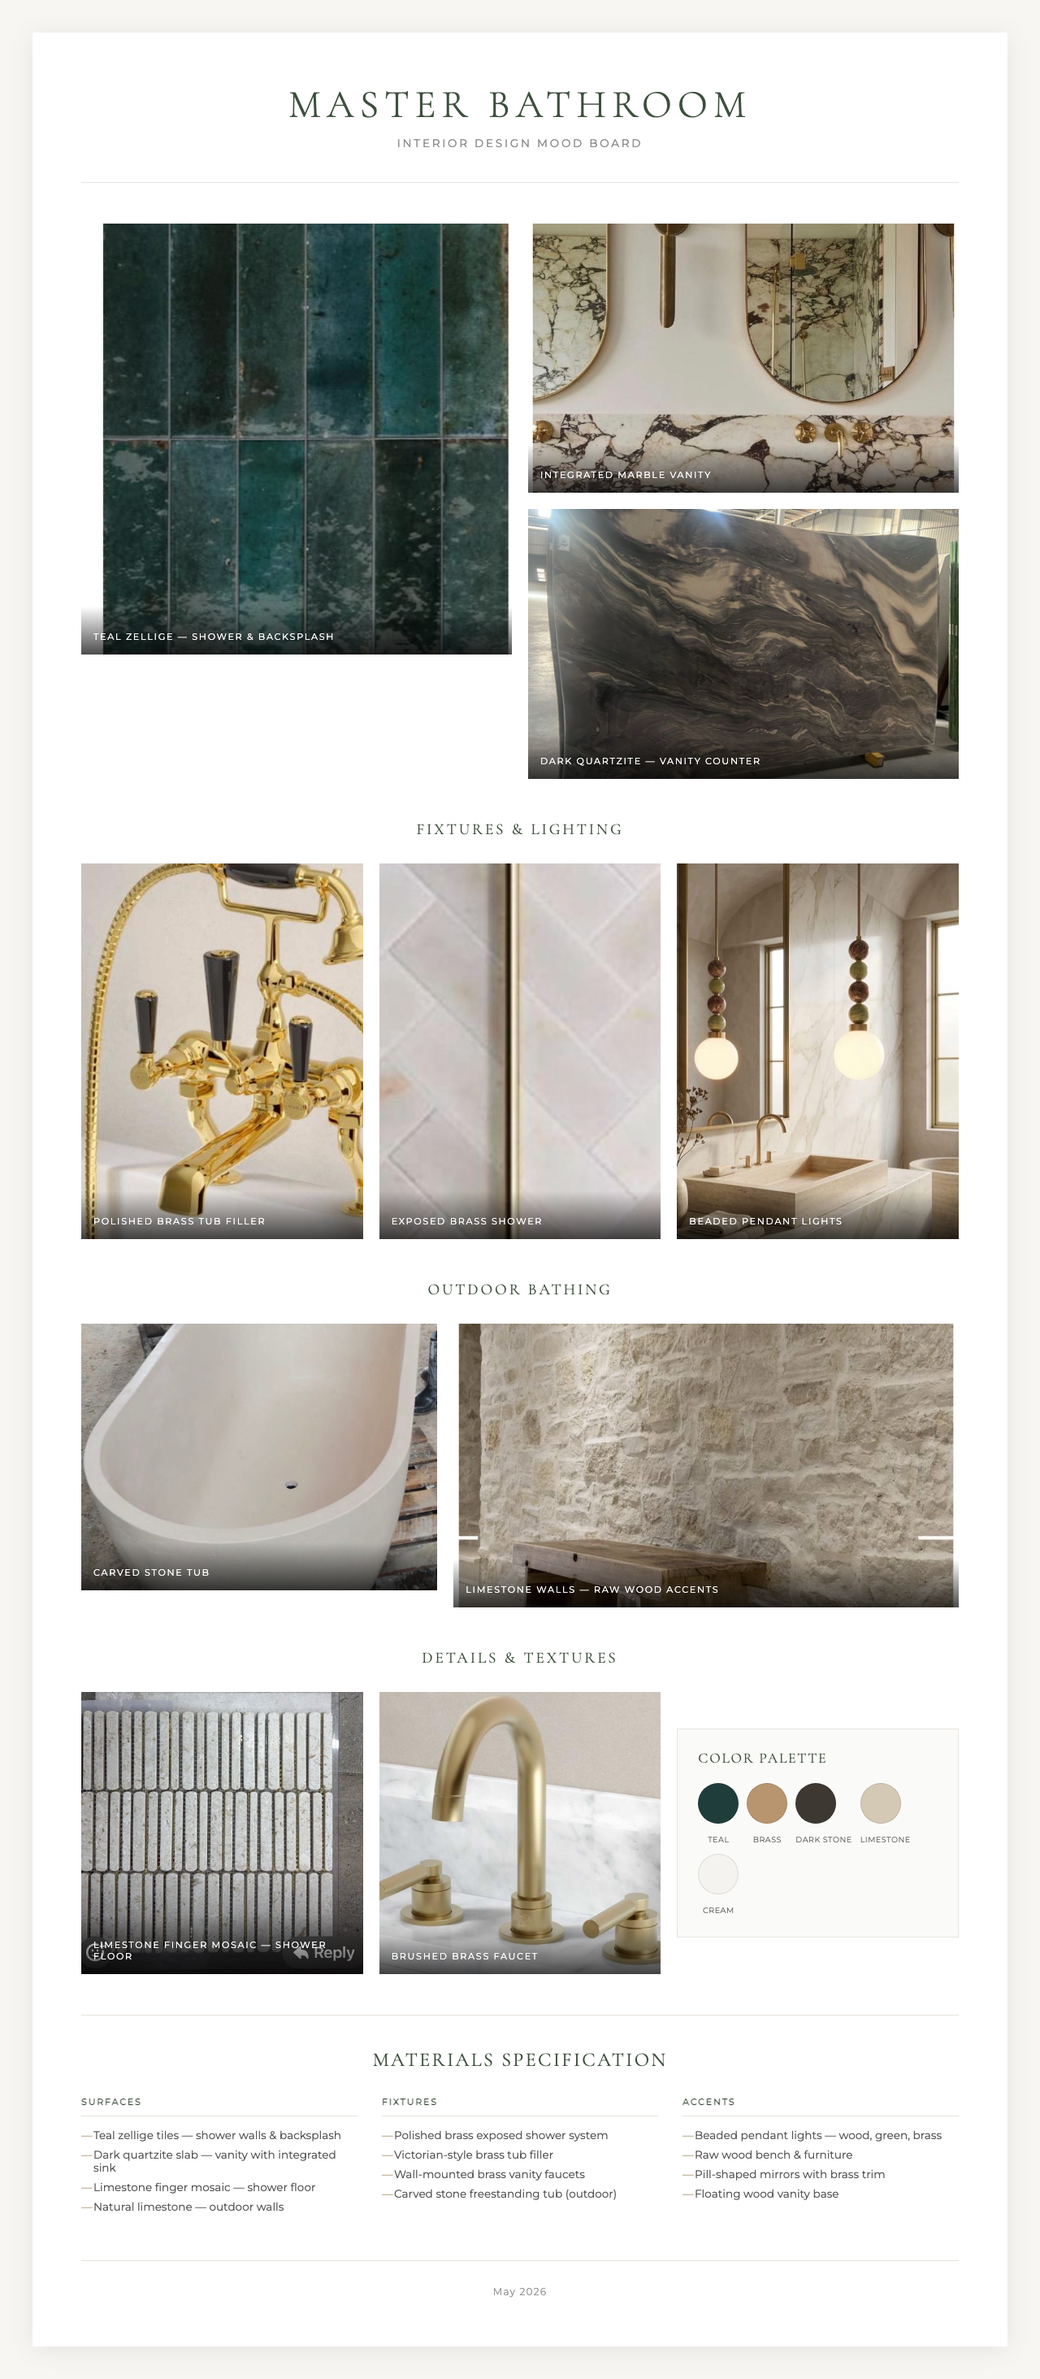
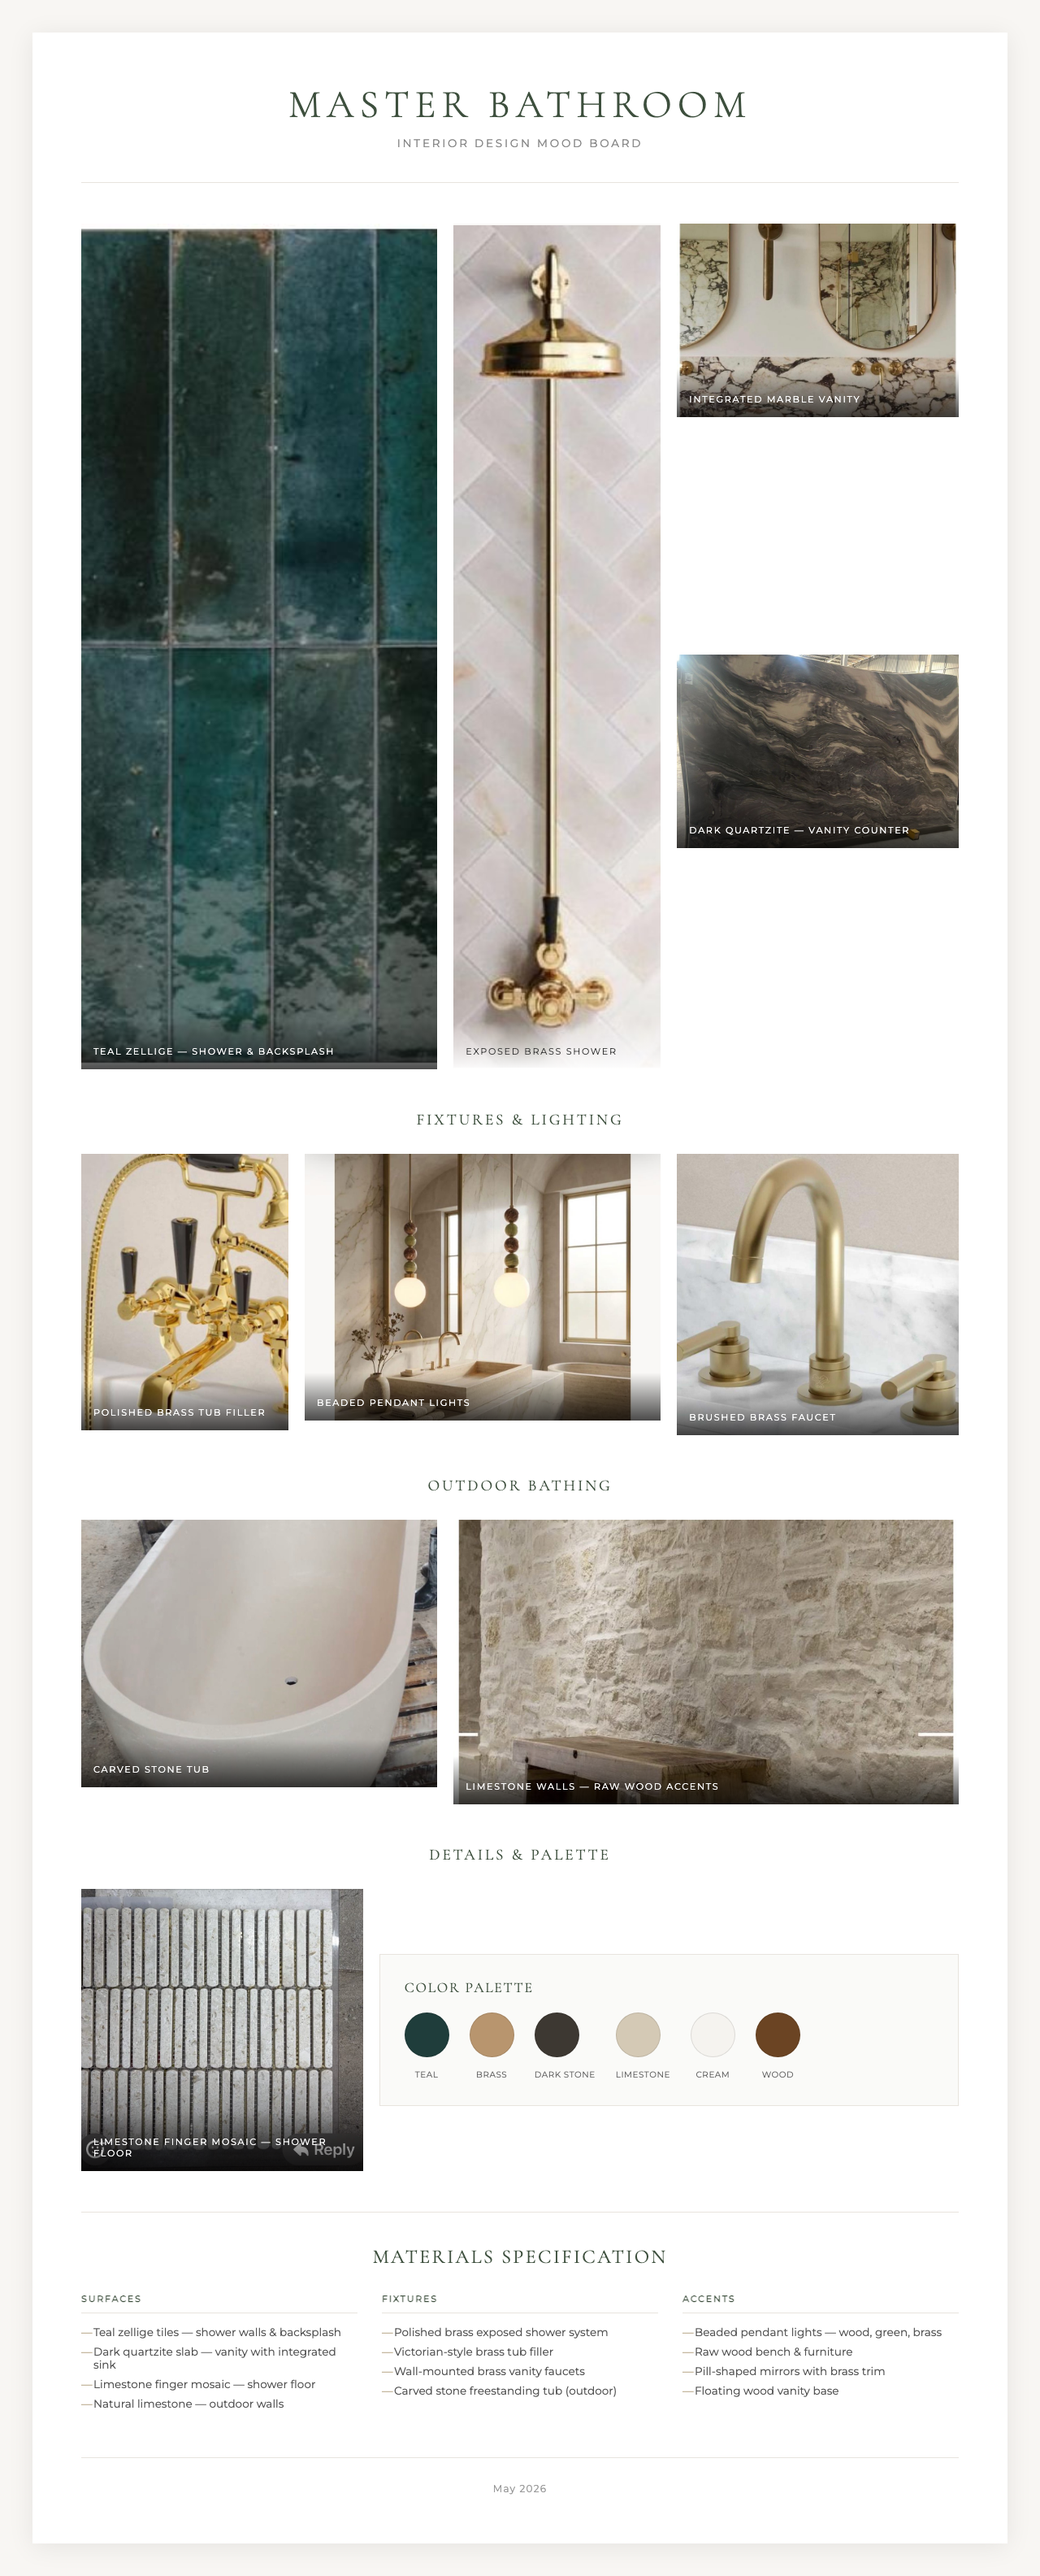
Show prices under 1M as K instead of M

diff --git a/angelina-moodboards/master-bathroom/moodboard.html b/angelina-moodboards/master-bathroom/moodboard.html
@@ -73,6 +73,11 @@
       transition: transform 0.5s ease;
     }
     
+    .grid-item img.contain {
+      object-fit: contain;
+      background: #f9f8f6;
+    }
+    
     .grid-item:hover img {
       transform: scale(1.03);
     }
@@ -90,41 +95,51 @@
       text-transform: uppercase;
     }
     
-    /* Hero - Teal Zellige */
-    .item-hero {
-      grid-column: span 6;
-      grid-row: span 2;
-      aspect-ratio: 1;
+    .grid-item .label.light {
+      background: linear-gradient(transparent, rgba(255,255,255,0.95));
+      color: #333;
     }
     
-    /* Right column stack */
+    /* Hero - Teal Zellige */
+    .item-hero {
+      grid-column: span 5;
+      grid-row: span 2;
+    }
+    
+    /* Shower fixture - tall, no crop */
+    .item-shower-fixture {
+      grid-column: span 3;
+      grid-row: span 2;
+    }
+    
+    /* Right column */
     .item-sink {
-      grid-column: span 6;
-      aspect-ratio: 16/10;
+      grid-column: span 4;
+      aspect-ratio: 16/11;
     }
     
     .item-marble {
-      grid-column: span 6;
-      aspect-ratio: 16/10;
+      grid-column: span 4;
+      aspect-ratio: 16/11;
     }
     
-    /* Second row */
+    /* Fixtures Row */
     .item-tub-filler {
-      grid-column: span 4;
-      aspect-ratio: 3/4;
-    }
-    
-    .item-shower-fixture {
-      grid-column: span 4;
+      grid-column: span 3;
       aspect-ratio: 3/4;
     }
     
     .item-pendant {
-      grid-column: span 4;
-      aspect-ratio: 3/4;
+      grid-column: span 5;
+      aspect-ratio: 4/3;
     }
     
-    /* Third row */
+    .item-faucet {
+      grid-column: span 4;
+      aspect-ratio: 1;
+    }
+    
+    /* Outdoor Section */
     .item-stone-tub {
       grid-column: span 5;
       aspect-ratio: 4/3;
@@ -135,19 +150,14 @@
       aspect-ratio: 16/9;
     }
     
-    /* Fourth row */
+    /* Details Row */
     .item-shower-floor {
       grid-column: span 4;
       aspect-ratio: 1;
     }
     
-    .item-faucet {
-      grid-column: span 4;
-      aspect-ratio: 1;
-    }
-    
     .color-palette {
-      grid-column: span 4;
+      grid-column: span 8;
       display: flex;
       flex-direction: column;
       justify-content: center;
@@ -156,7 +166,7 @@
     /* Color Palette */
     .palette-container {
       background: #FAFAF8;
-      padding: 25px;
+      padding: 30px;
       border: 1px solid #E8E4DE;
     }
     
@@ -172,7 +182,7 @@
     
     .palette-colors {
       display: flex;
-      gap: 10px;
+      gap: 25px;
       flex-wrap: wrap;
     }
     
@@ -181,15 +191,15 @@
     }
     
     .swatch {
-      width: 50px;
-      height: 50px;
+      width: 55px;
+      height: 55px;
       border-radius: 50%;
-      margin-bottom: 8px;
+      margin-bottom: 10px;
       border: 1px solid rgba(0,0,0,0.1);
     }
     
     .color-swatch span {
-      font-size: 0.6rem;
+      font-size: 0.65rem;
       letter-spacing: 0.05em;
       text-transform: uppercase;
       color: #666;
@@ -287,10 +297,15 @@
     </div>
     
     <div class="grid">
-      <!-- Hero Section -->
+      <!-- Hero Row -->
       <div class="grid-item item-hero">
         <img src="images/04-teal-zellige.jpg" alt="Teal Zellige Tiles">
         <div class="label">Teal Zellige — Shower & Backsplash</div>
+      </div>
+      
+      <div class="grid-item item-shower-fixture">
+        <img src="images/01-shower-fixture.jpg" alt="Exposed Shower Fixture" class="contain">
+        <div class="label light">Exposed Brass Shower</div>
       </div>
       
       <div class="grid-item item-sink">
@@ -313,14 +328,14 @@
         <div class="label">Polished Brass Tub Filler</div>
       </div>
       
-      <div class="grid-item item-shower-fixture">
-        <img src="images/01-shower-fixture.jpg" alt="Exposed Shower Fixture">
-        <div class="label">Exposed Brass Shower</div>
-      </div>
-      
       <div class="grid-item item-pendant">
         <img src="images/09-pendant-lights.jpg" alt="Beaded Pendant Lights">
         <div class="label">Beaded Pendant Lights</div>
+      </div>
+      
+      <div class="grid-item item-faucet">
+        <img src="images/03-vanity-faucet.jpg" alt="Modern Brass Faucet">
+        <div class="label">Brushed Brass Faucet</div>
       </div>
       
       <!-- Outdoor Section -->
@@ -340,17 +355,12 @@
       
       <!-- Details Row -->
       <div class="section-label">
-        <h2>Details & Textures</h2>
+        <h2>Details & Palette</h2>
       </div>
       
       <div class="grid-item item-shower-floor">
         <img src="images/10-shower-floor.jpg" alt="Limestone Finger Mosaic">
         <div class="label">Limestone Finger Mosaic — Shower Floor</div>
-      </div>
-      
-      <div class="grid-item item-faucet">
-        <img src="images/03-vanity-faucet.jpg" alt="Modern Brass Faucet">
-        <div class="label">Brushed Brass Faucet</div>
       </div>
       
       <div class="color-palette">
@@ -376,6 +386,10 @@
             <div class="color-swatch">
               <div class="swatch" style="background: #F5F3EF;"></div>
               <span>Cream</span>
+            </div>
+            <div class="color-swatch">
+              <div class="swatch" style="background: #6B4423;"></div>
+              <span>Wood</span>
             </div>
           </div>
         </div>
